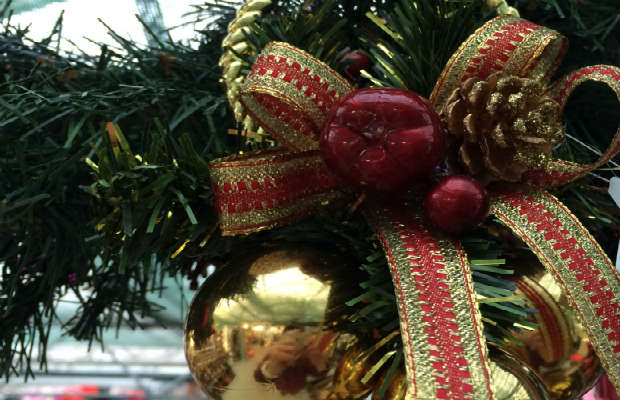
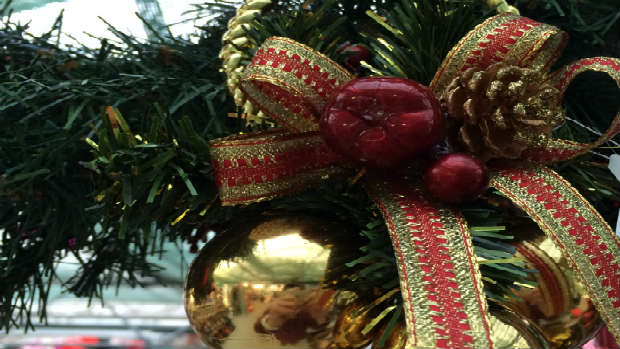
christmas backing

diff --git a/christmas-1.md b/christmas-1.md
@@ -1,6 +1,6 @@
 ---
 title: Christmas
-img: 620/.jpg
+img: 620/christmasbacking.jpg
 layout: default
 features:
   - title: Wilkinson Sword Anvil Pruner RRP £19.99 now £14.99
